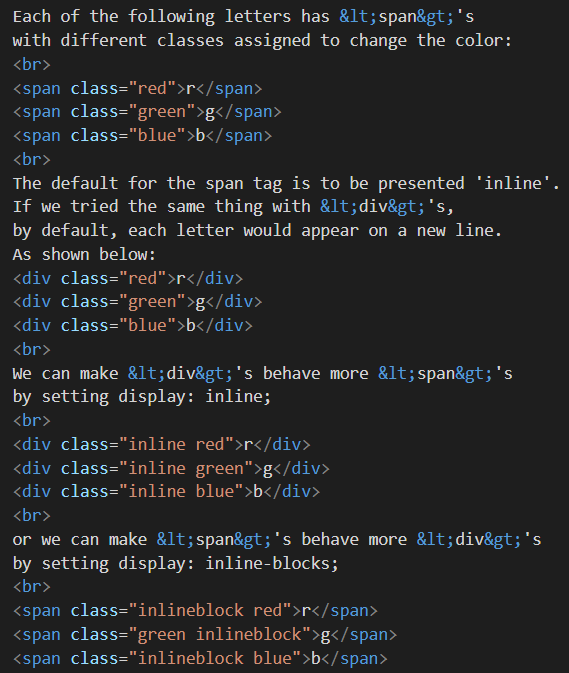
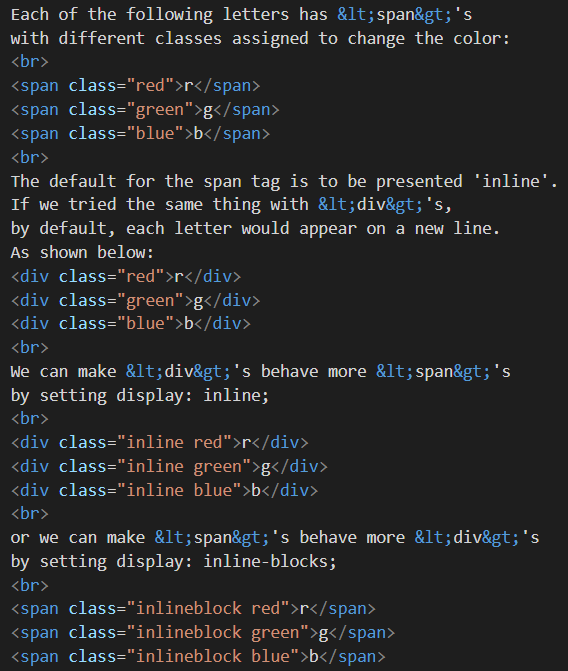
fixing typo in code screenshot

Changed region(s): [[0.0, 0.0, 0.9577, 1.0], [0.9278, 0.775, 0.9577, 0.8048]]

diff --git a/blog/html-css.html b/blog/html-css.html
@@ -59,7 +59,7 @@
             by setting display: inline-blocks;
             <br>
             <span class="inlineblock red">r</span>
-            <span class="green inlineblock">g</span>
+            <span class="inlineblock green">g</span>
             <span class="inlineblock blue">b</span>
             <br>
             When an element has {display: inline-block;} set, 
